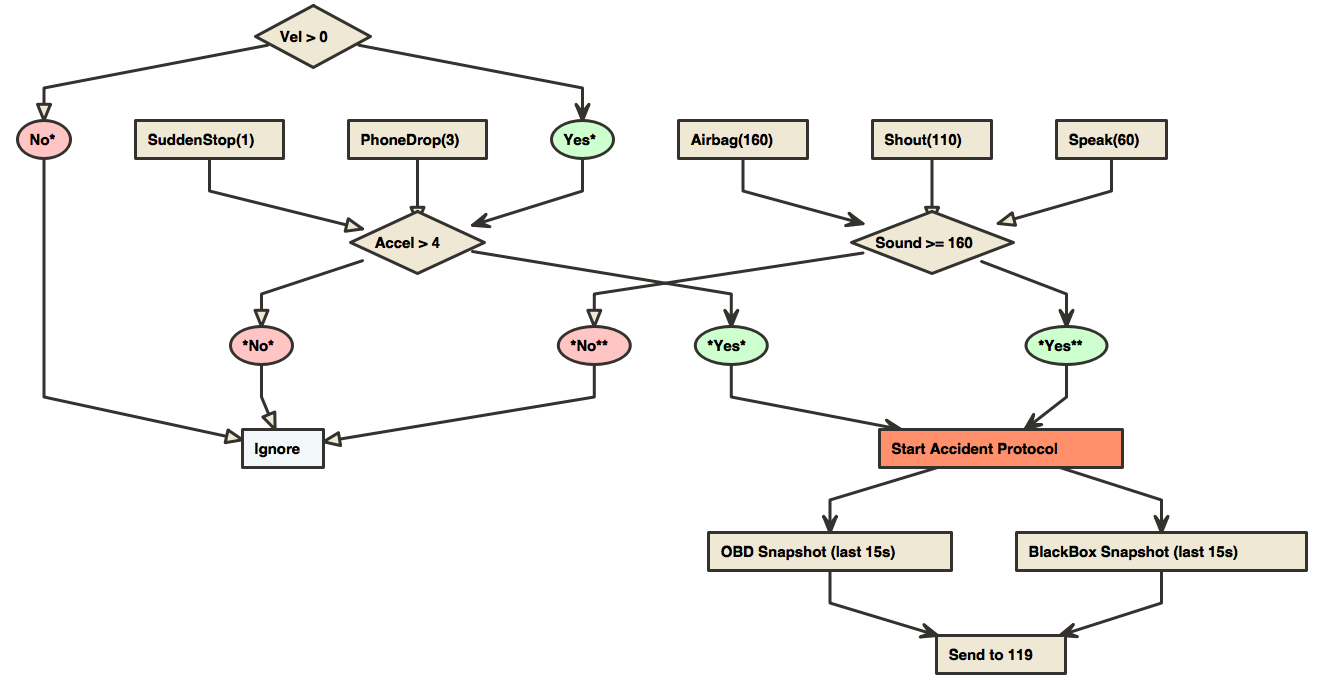
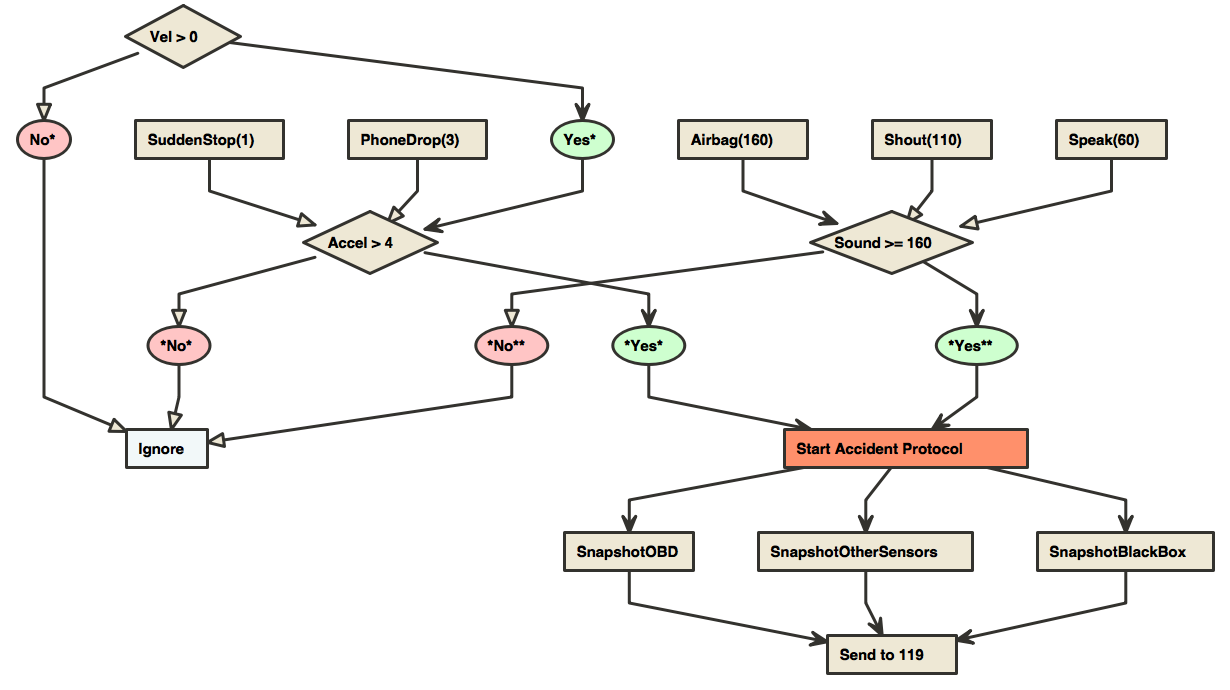
Quick save...

diff --git a/README.md b/README.md
@@ -14,6 +14,9 @@
 > * Airbag(dB): in-vehicle sound pressure generated by airbag release
 > * Shout(dB): in-vehicle sound pressure generated by person shouting
 > * Speak(dB): in-vehicle sound pressure generated by people speaking
+> * SnapshotOBD: last 15s of OBD data
+> * SnapshotOtherSensors: last 15s of other sensor data (e.g. sound)
+> * SnapshotBlackBox: last 15s of blackbox data
 
 * Based on [this paper](https://drive.google.com/file/d/1QDbfbPimx4J_werIiUyXG3ZoOR6K9eps/view?usp=sharing), and [this paper](https://drive.google.com/file/d/1DYU_4OLVB49VQrmpePN6T9Jg_qmxFNcf/view?usp=sharing)
 * Begin recording accelerometer information and looking for potential accidents only above 15mph
